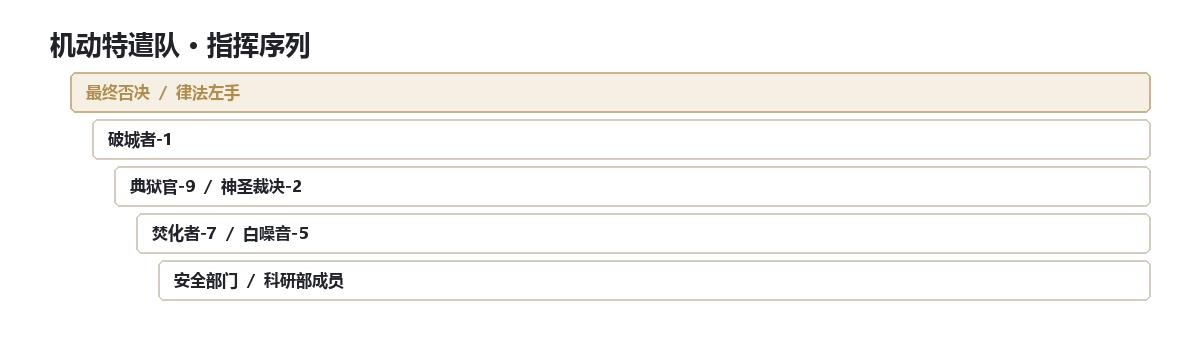
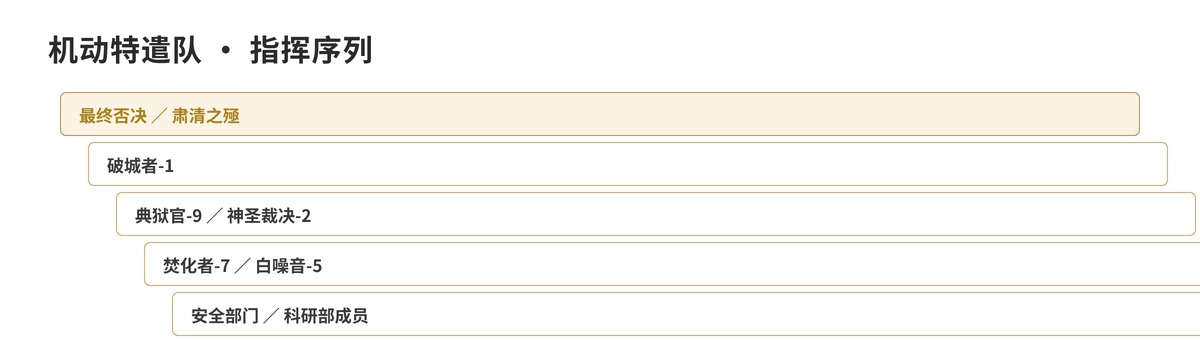
指挥序列图与轮值守卫名改为肃清之殛；破城者队员权限降为Lv.3

Changed region(s): [[0.0308, 0.0882, 1.0, 1.0]]

diff --git a/security.html b/security.html
@@ -115,7 +115,7 @@
       <p>轮值周期九十天，轮值表由总署批准。安全委员会可以缓议一次——历史上只用过三次，两次改的是顺序，一次改的是人。</p>
       <p>人换，装备不换。破城者的重装备搬不动，固定在总部地下军械库；换的是坐在里面的人。</p>
       <p>当值队有现场第一决定权，事后必须提交值班日志。谁当值、谁处置、谁背责任，一条线到底。</p>
-      <p>不参加轮值的两支：最终否决与律法左手——你没法给一把手术刀排班。</p>
+      <p>不参加轮值的两支：最终否决与肃清之殛——你没法给一把手术刀排班。</p>
 
       <h2>八、指挥链</h2>
       <p>机动特遣队在任何情况下都有权命令所有安全部门成员和情报局成员前往避难或应战。</p>

diff --git a/staff-zhaoyuege.html b/staff-zhaoyuege.html
@@ -75,7 +75,7 @@
               <dt>擅长</dt>
               <dd>近距离重装突击，使用重型滑膛炮与破甲弹进行精准毁伤，近身对抗格斗，拆解组装与维修，紧急急救，做饭</dd>
               <dt>权限等级</dt>
-              <dd>Lv.4 · 高级行动</dd>
+              <dd>Lv.3 · 行动</dd>
               <dt>行动报告</dt>
               <dd><a class="act-link" href="./staff-zhaoyuege-action.html">行动报告<span class="act-link-arrow">→</span></a></dd>
             </dl>

diff --git a/staff-zhaoyuege-action.html b/staff-zhaoyuege-action.html
@@ -62,7 +62,7 @@
             <dt>职位</dt>
             <dd>机动特遣队「破城者-1」队员</dd>
             <dt>权限等级</dt>
-            <dd>Lv.4 · 高级行动</dd>
+            <dd>Lv.3 · 行动</dd>
           </dl>
         </div>
 
